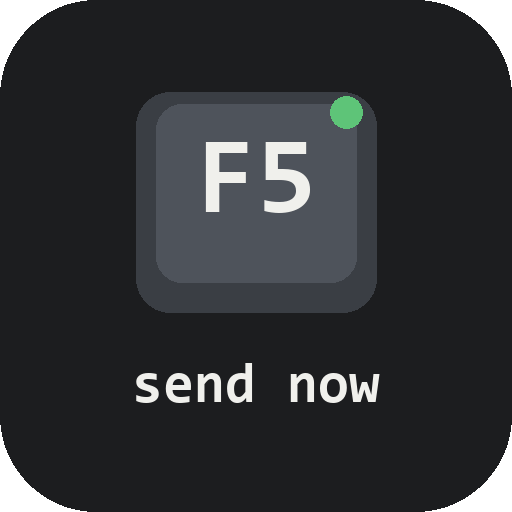
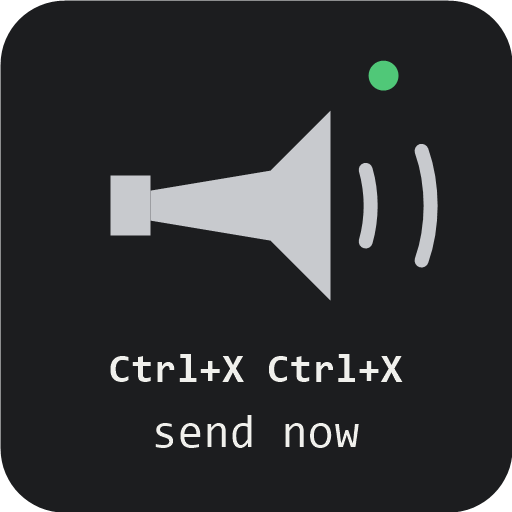
Horn 0.2.0 into the directory, Steering Wheel 0.1.3 out: /horn now answers
The proof run caught it: the command.run hook filtered on { name } where the
engine matches { command }, so /horn and /steering-wheel did nothing. Fixed in
both, proven on Horn against an old-style keys file (tests/PROOF.md). Horn
takes Steering Wheel's place in marketplace.json, his click: "Horn replaces
Steering Wheel". New icon: a horn and Ctrl+X Ctrl+X, no F5.

Claude-Session: https://claude.ai/code/session_015QmsrC8huyMxBp4aArWsvo

diff --git a/plugins/horn/hooks/register.ts b/plugins/horn/hooks/register.ts
@@ -105,11 +105,11 @@ export const register: Register = on => {
     const path = `${home}/.claude/keybindings.json`
     const text = (await $.fs.exists(path)) ? await $.fs.read(path) : null
     key = sendKey(parse(text)) ?? DEFAULT_CHORD
-    $.command.register({ name: NAME, description: 'Set Ctrl+X Ctrl+X to send a waiting message now' })
+    await $.command.register({ name: NAME, description: 'Set Ctrl+X Ctrl+X to send a waiting message now' })
     return next(e)
   })
 
-  on('command.run', { name: NAME }, async $ => {
+  on('command.run', { command: NAME }, async ($, e) => {
     const home = (await $.env.get('USERPROFILE')) || (await $.env.get('HOME')) || ''
     const path = `${home}/.claude/keybindings.json`
     const before = parse((await $.fs.exists(path)) ? await $.fs.read(path) : null)

diff --git a/plugins/steering-wheel/hooks/register.ts b/plugins/steering-wheel/hooks/register.ts
@@ -107,11 +107,11 @@ export const register: Register = on => {
     const path = `${home}/.claude/keybindings.json`
     const text = (await $.fs.exists(path)) ? await $.fs.read(path) : null
     key = sendKey(parse(text)) ?? DEFAULT_CHORD
-    $.command.register({ name: NAME, description: 'Set Ctrl+X Ctrl+X to send a waiting message now' })
+    await $.command.register({ name: NAME, description: 'Set Ctrl+X Ctrl+X to send a waiting message now' })
     return next(e)
   })
 
-  on('command.run', { name: NAME }, async $ => {
+  on('command.run', { command: NAME }, async ($, e) => {
     const home = (await $.env.get('USERPROFILE')) || (await $.env.get('HOME')) || ''
     const path = `${home}/.claude/keybindings.json`
     const before = parse((await $.fs.exists(path)) ? await $.fs.read(path) : null)

diff --git a/plugins/horn/tests/PROOF.md b/plugins/horn/tests/PROOF.md
@@ -1,0 +1,23 @@
+# Horn proof
+
+Does `/horn` really fix a keys file? Run 4 Oct 2026, Claude Code 2.1.289, `claude -p "/horn"` with the mod loaded by `--plugin-dir`, against a keys file shaped like the one an older version (Ignition, Steering Wheel 0.1.0) left behind. His own file was backed up first and put back after, checked byte for byte.
+
+## Before
+
+`f5 -> chat:sendNow`, `ctrl+x ctrl+s -> null`, and one binding of his own, `ctrl+g -> chat:externalEditor`.
+
+## Run 1
+
+Reply: "Ctrl+X Ctrl+X now sends a waiting message right away. Ctrl+X Ctrl+S still works too. Took out what an older version left: F5, Ctrl+X Ctrl+S."
+
+File after: `ctrl+g -> chat:externalEditor` kept, `ctrl+x ctrl+x -> chat:sendNow` added, F5 and the null gone.
+
+## Run 2, same file
+
+Reply: "Ctrl+X Ctrl+X already sends now. Nothing changed." The file was left byte for byte the same.
+
+## What the proof caught first
+
+The first run answered "horn registered /horn but no command.run hook answered it". The hook filtered on `{ name }` where the engine matches `{ command }`, so `/horn` did nothing at all. Fixed, then run again above. Steering Wheel had the same fault.
+
+PROOF 0.2.0: PASS

diff --git a/plugins/steering-wheel/tests/PROOF.md b/plugins/steering-wheel/tests/PROOF.md
@@ -1,0 +1,5 @@
+# Steering Wheel proof
+
+The same `{ name }` to `{ command }` fix as Horn, whose proof run is in plugins/horn/tests/PROOF.md. Horn replaces Steering Wheel in the directory, his click, 4 Oct 2026.
+
+PROOF 0.1.3: NONE — being withdrawn for Horn; the identical handler was proven on Horn 0.2.0
